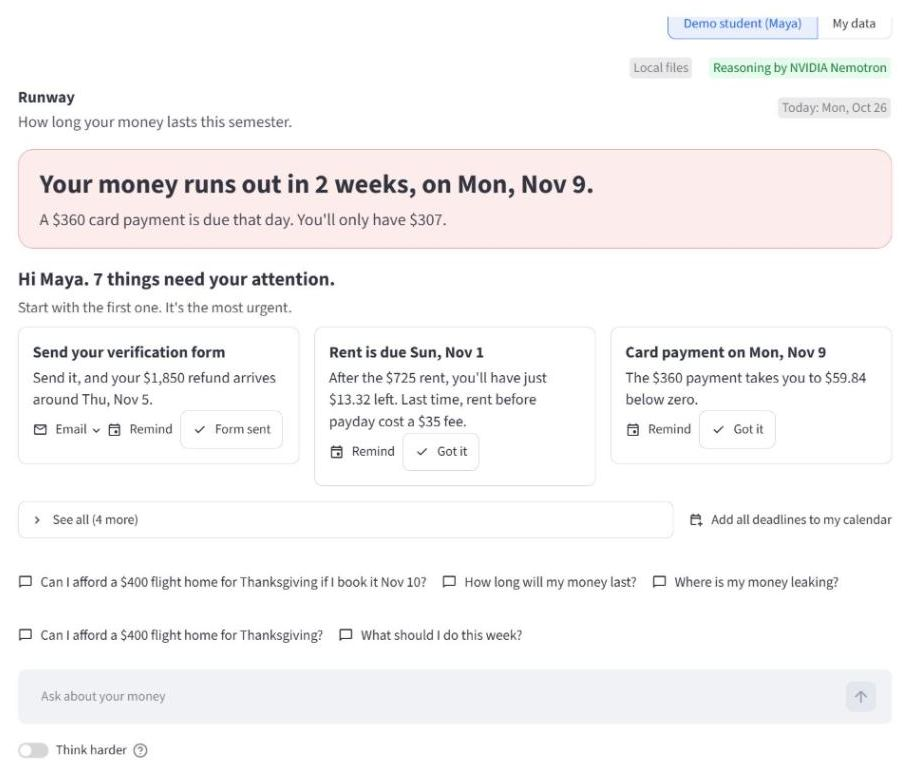
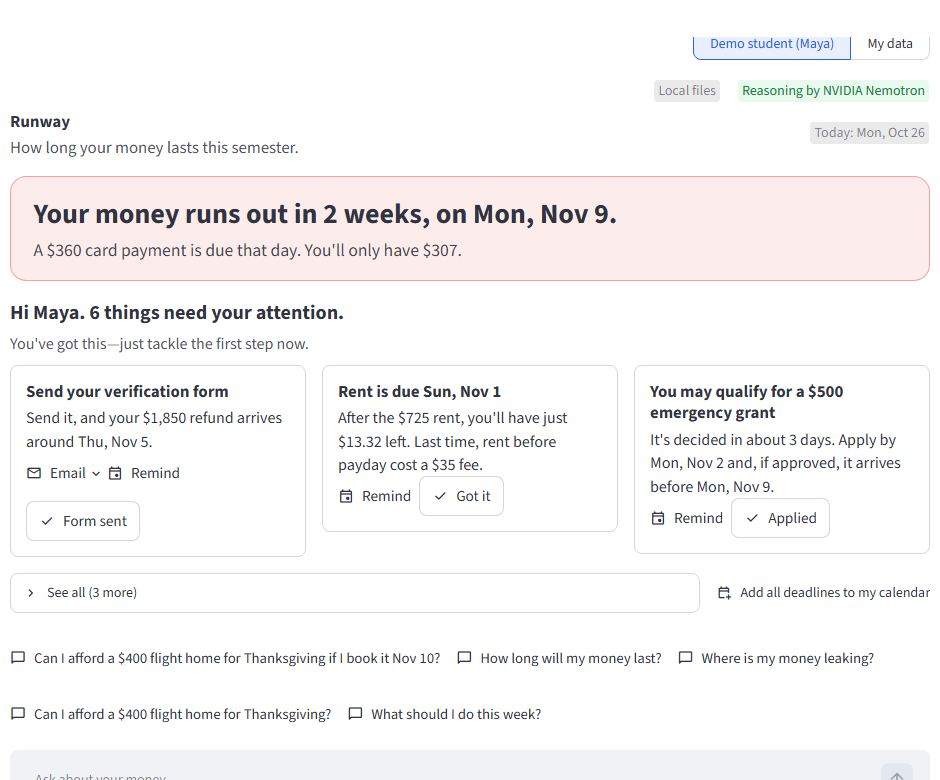
Polish: shorter online-results caption, refreshed README images (6-item check-in, Semester with the shift planner), night log

diff --git a/ui/findmoney.py b/ui/findmoney.py
@@ -116,8 +116,8 @@ def web_results(found):
                      f"{fmt.md(amount)} · Deadline: {fmt.md(deadline)}")
     st.markdown("\n".join(lines))
     st.caption(f"{found_at_words(found)} with {found.get('provider', 'web search')}. Runway didn't check who can "
-               "apply, and none of these are in your forecast. Amounts and deadlines are shown only when the page "
-               "itself says them.")
+               "apply. None of these are in your forecast. Amounts and deadlines show only when the page says "
+               "them.")
 
 
 def web_section(ds):

diff --git a/docs/NIGHT_LOG.md b/docs/NIGHT_LOG.md
@@ -159,3 +159,19 @@ Written as the work happens. Times are this laptop's clock (EDT). Each part is c
 - Targeted re-run (fast, twice): headphones, "Will my dining dollars last?", "How many meal swipes...".
   Before (overnight runs 1-2): 0/6 full answers. After: 5/6. The one miss: headphones run 1 copied a calculation
   note ("-$1,612.37") - the checker caught it and the quick answer stood in. No answer needed the repair in this run.
+### Part 2: whole-app polish
+- Screenshots with headless Chrome over the DevTools protocol (no new packages; the extension wasn't connected):
+  every tab + the check-in, light/dark, laptop (1440) / phone (390), base / "Form sent" / two planned shifts.
+  56 before (screenshots/before/) and 56 after (screenshots/final/), both gitignored.
+- Found and fixed: a fake test result ("Sophomore Science Award, example.org, $2,500") showing in Find money: an
+  early web-search test (before the cache-path fix) had written the app's real cache. Deleted the cache file; a
+  conftest guard now points every test at a temp cache and blocks the web search.
+- One product: Findings cards use the same card title/text as the check-in and Find money (they were large h4s);
+  one section heading size (h4) in Semester, Budget and Find money; one action-button size in card rows; the "If
+  approved" switch centered on the button line; Budget inputs in reading order on phones (row by row).
+- Duplicates: the check-in no longer has a "Card payment on Mon, Nov 9" card - the status card right above says it.
+  Maya now has 6 items; if the run-out was the only item (My data mode) the heading says "See the ways to fix it
+  below." (not "You're all caught up").
+- Readability: split the long sentences found by a scan of every visible sentence (Find money intro, "...after the
+  semester. So it adds $0.00 this semester.", the tight-week card, the online-results caption).
+- README: check-in paragraph (6 items) and two refreshed images (status + check-in, Semester with the planner).
